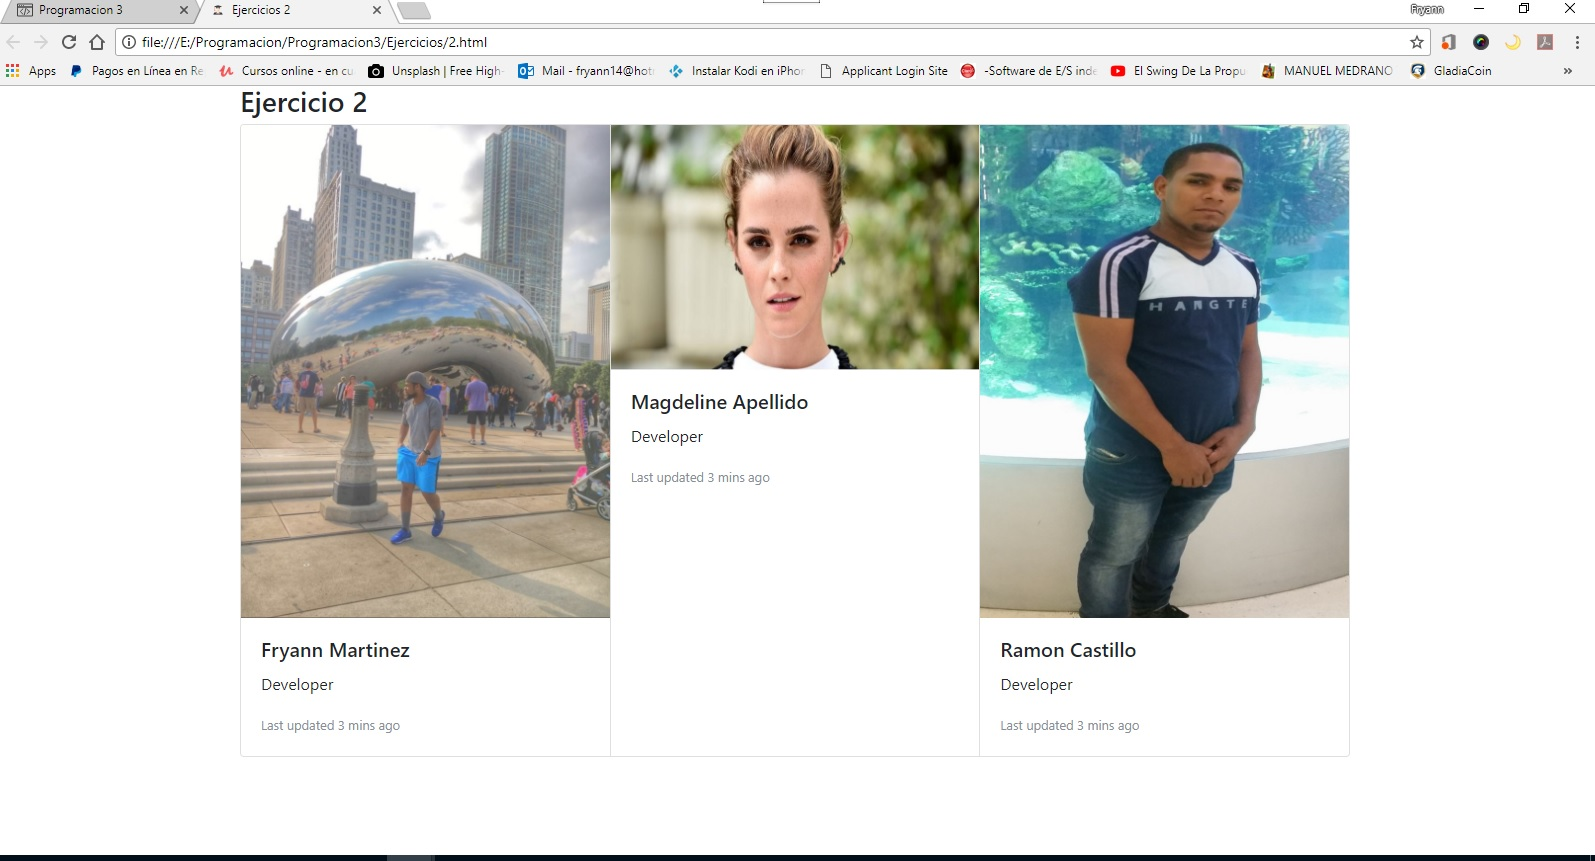
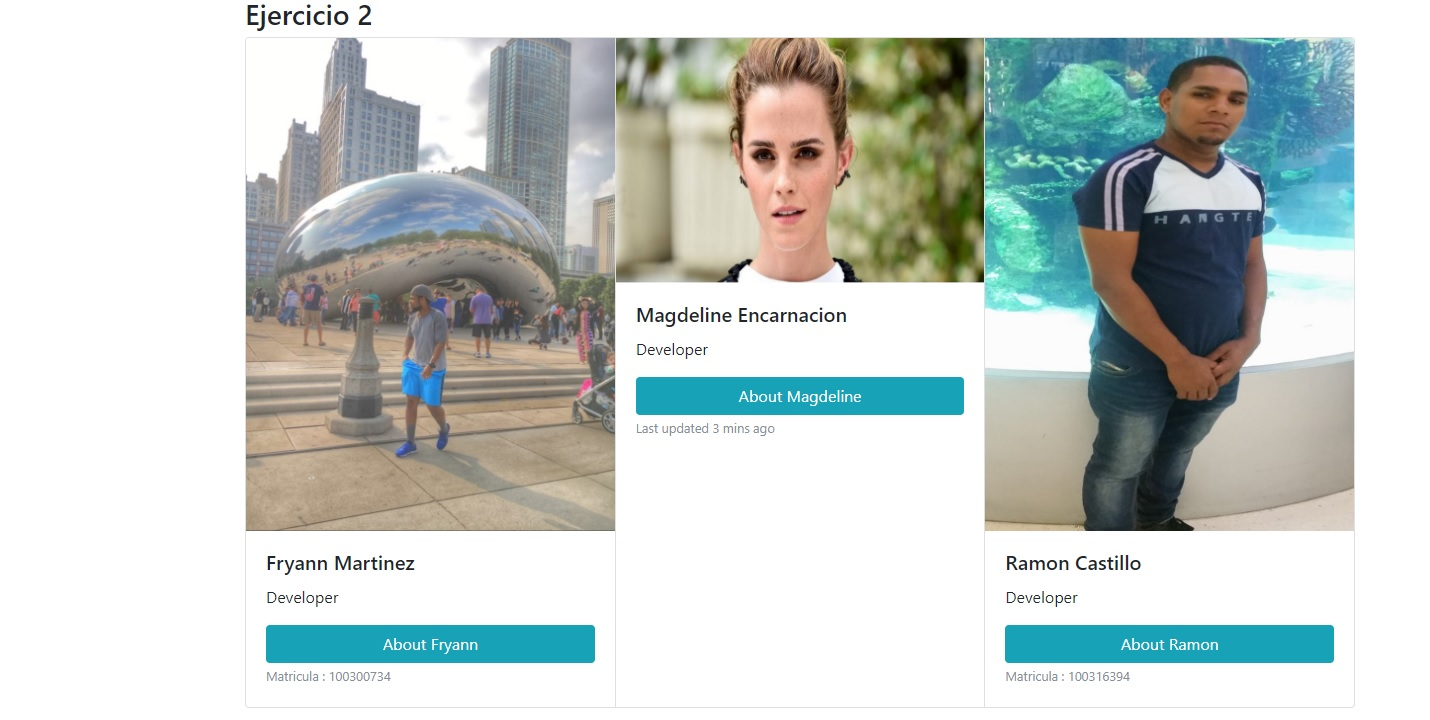
Agregando Ejercicio 2 con modal  al proyecto 80 %

diff --git a/2.html b/2.html
@@ -18,21 +18,55 @@
     <div class="card-body">
       <h5 class="card-title">Fryann Martinez</h5>
       <p class="card-text">Developer</p>
-      <button type="button" class="btn btn-info btn-block data-toggle="modal" data-target="#fm-modal">Informacion</button>
+      
     
+      	<button class="btn btn-info btn-block" data-toggle="modal" data-target="#fm-modal">About Fryann</button>
+				<div class="modal fade" id="fm-modal" tabindex="-1" role="dialog" aria-labelledby="fm-modal" aria-hidden="true">
+					<div class="modal-dialog">
+						<div class="modal-content">
+							<div class="modal-header">
+								<h5 class="modal-title" id="">Fryann Martinez Biografia</h5>
+								<button class="close" data-dismiss="modal" aria-label="Cerrar">
+									<span aria-hidden="true">&times;</span>
+								</button>
+							</div>
 
+							<div class="modal-body">
+								<h2>Biografia </h2>
+								<p>Fryann Harold Martinez Hernandez nacio 8 de mayo del 1994 en Santo Domingo
+								 Republica Dominicana</p>
+							</div>
+						</div>
+					</div>
+				</div>
 
-      <p class="card-text"><small class="text-muted">Last updated 3 mins ago</small></p>
+      <p class="card-text"><small class="text-muted"> Matricula : 100300734</small></p>
     </div>
   </div>
   <div class="card">
     <img class="card-img-top" src="img/magdeline.jpg" alt="Card image cap">
     <div class="card-body">
-      <h5 class="card-title">Magdeline Apellido</h5>
+      <h5 class="card-title">Magdeline Encarnacion</h5>
       <p class="card-text">Developer</p>
-      <div class="col-12 ">
-      	<button type="button" class="btn btn-info btn-block">Informacion</button>
-      </div>
+      	<button class="btn btn-info btn-block" data-toggle="modal" data-target="#fm-madeline">About Magdeline</button>
+				<div class="modal fade" id="fm-madeline" tabindex="-1" role="dialog" aria-labelledby="fm-modal" aria-hidden="true">
+					<div class="modal-dialog">
+						<div class="modal-content">
+							<div class="modal-header">
+								<h5 class="modal-title" id="">Magdeline Biografia</h5>
+								<button class="close" data-dismiss="modal" aria-label="Cerrar">
+									<span aria-hidden="true">&times;</span>
+								</button>
+							</div>
+
+							<div class="modal-body">
+								<h2>Biografia </h2>
+								<p>Magdeline Encarnacion nacio en Santo Domingo
+								 Republica Dominicana</p>
+							</div>
+						</div>
+					</div>
+				</div>
      
       <p class="card-text"><small class="text-muted">Last updated 3 mins ago</small></p>
     </div>
@@ -42,8 +76,26 @@
     <div class="card-body">
       <h5 class="card-title">Ramon Castillo</h5>
       <p class="card-text">Developer</p>
-      <button type="button" class="btn btn-info btn-block">Informacion</button>
-      <p class="card-text"><small class="text-muted">Last updated 3 mins ago</small></p>
+     <button class="btn btn-info btn-block" data-toggle="modal" data-target="#fm-Ramon">About Ramon</button>
+				<div class="modal fade" id="fm-Ramon" tabindex="-1" role="dialog" aria-labelledby="fm-modal" aria-hidden="true">
+					<div class="modal-dialog">
+						<div class="modal-content">
+							<div class="modal-header">
+								<h5 class="modal-title" id="">Ramon  Biografia</h5>
+								<button class="close" data-dismiss="modal" aria-label="Cerrar">
+									<span aria-hidden="true">&times;</span>
+								</button>
+							</div>
+
+							<div class="modal-body">
+								<h2>Biografia </h2>
+								<p>Ramon Castillo nacio en Santo Domingo
+								 Republica Dominicana</p>
+							</div>
+						</div>
+					</div>
+				</div>
+      <p class="card-text"><small class="text-muted"> Matricula : 100316394</small></p>
     </div>
   </div>
 </div>
